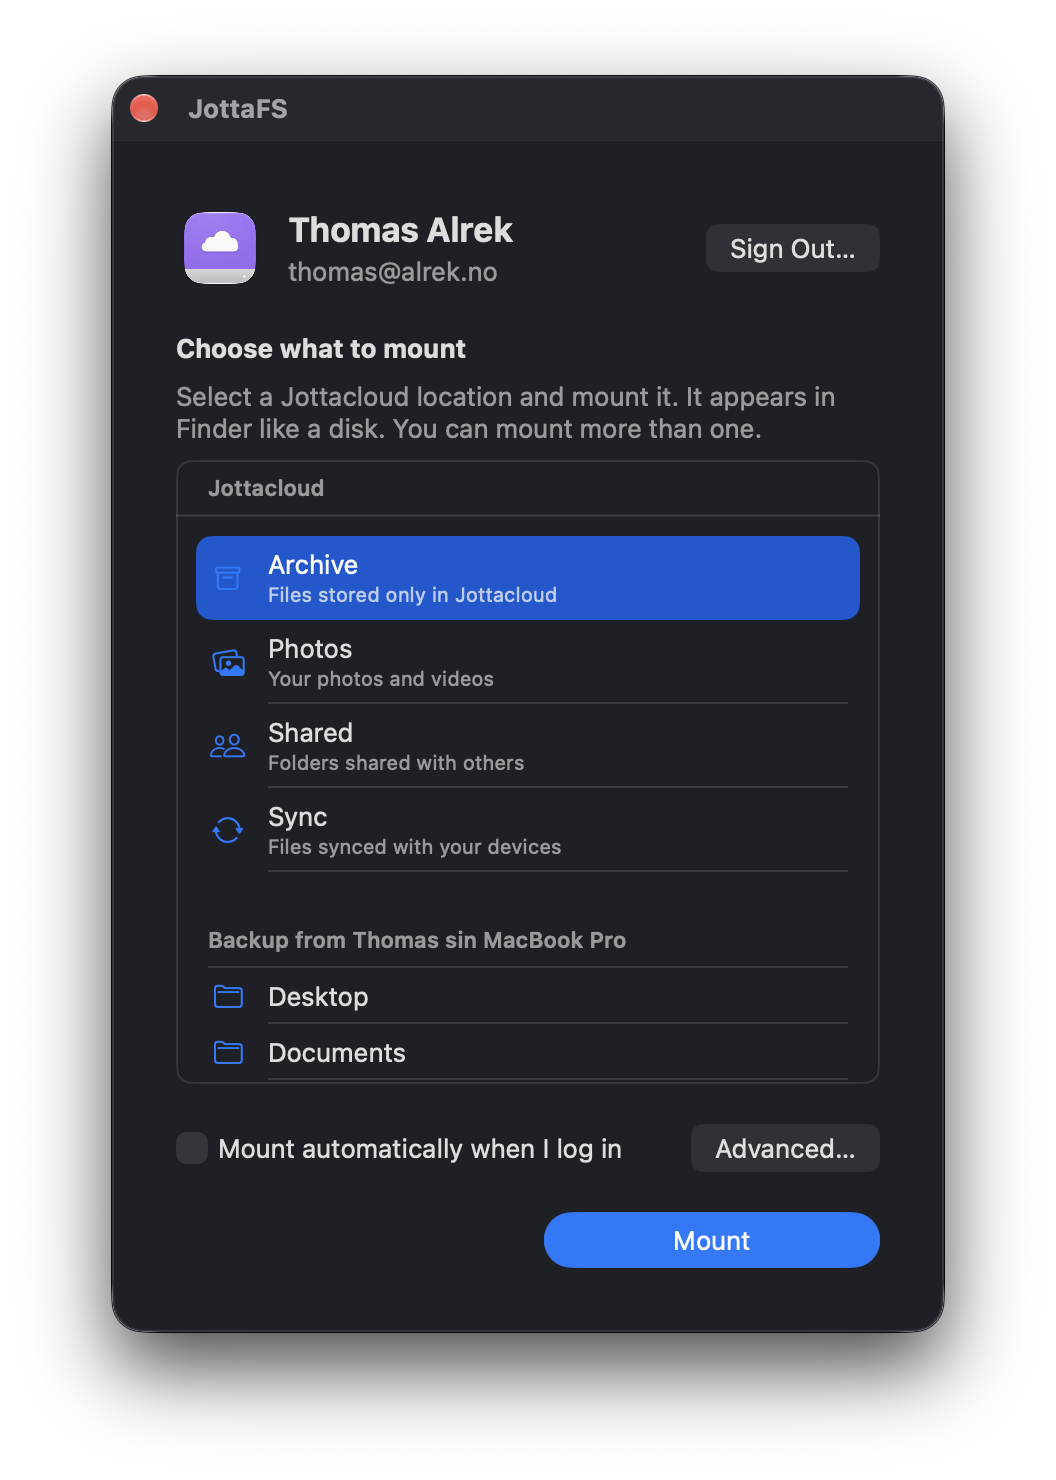
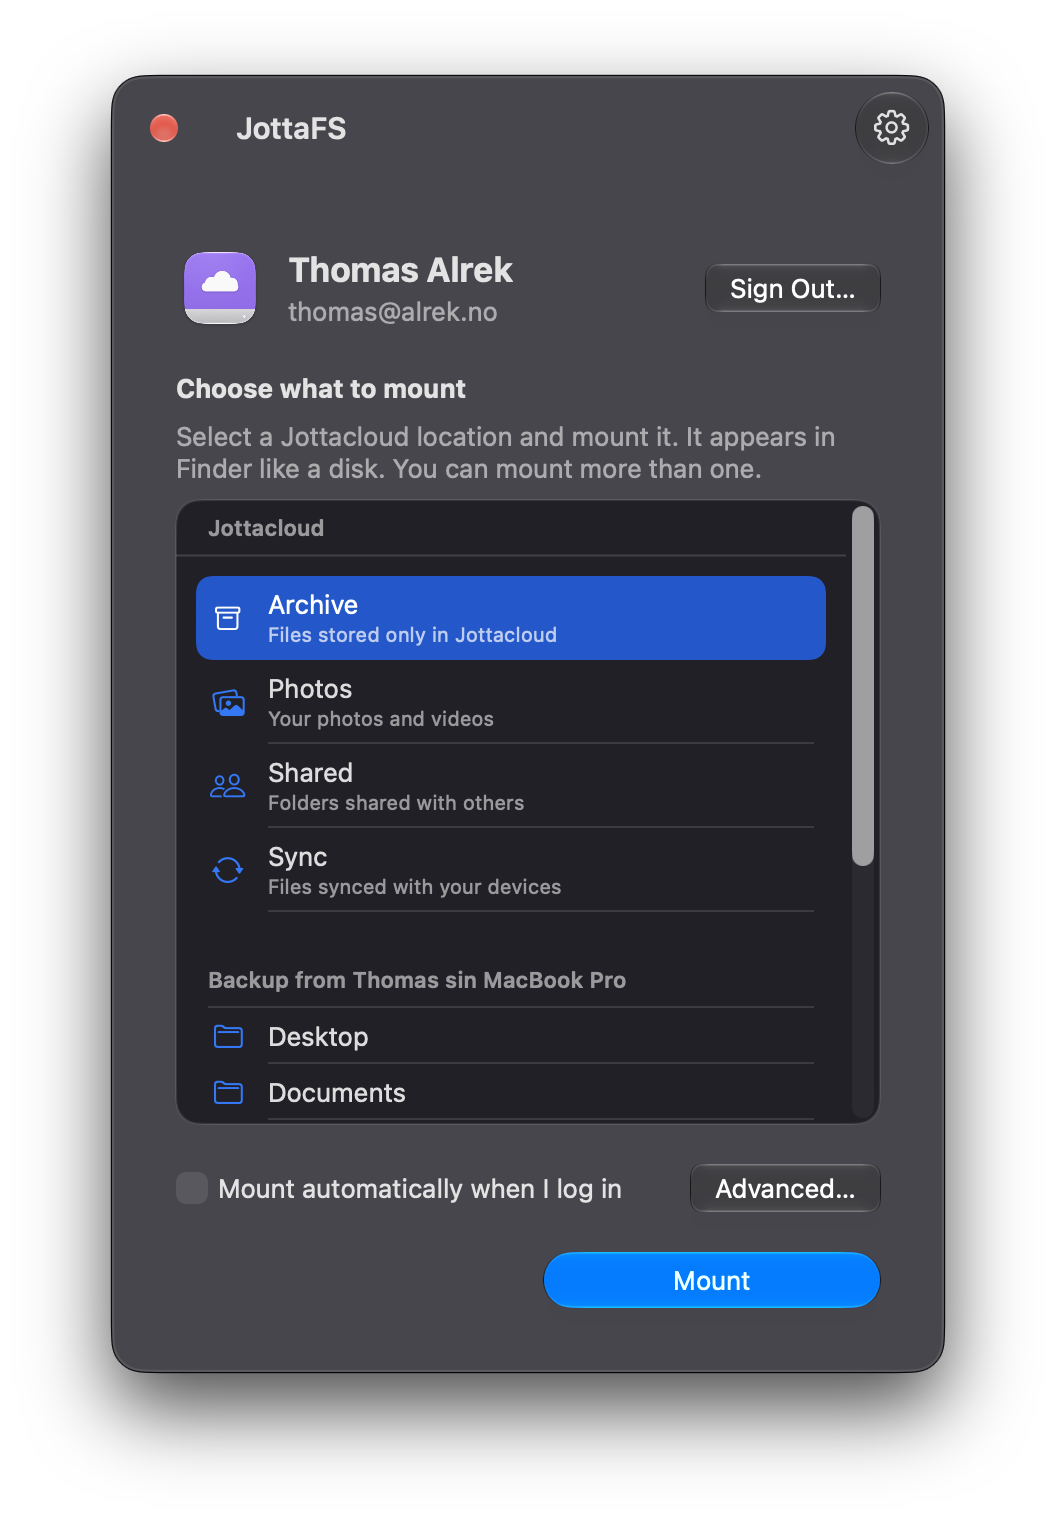
docs: new screenshots and Settings location for 1.2.0

diff --git a/README.md b/README.md
@@ -242,7 +242,7 @@ JottaFS uses a background item for this. If macOS asks, allow **JottaFS** in
 
 ### Settings
 
-Click the gear button in the lower-left corner of the JottaFS window, or
+Click the gear button in the upper-right corner of the JottaFS window, or
 choose **JottaFS → Settings**.
 
 - **Download cache:** set the size of the download cache, see how much of it
@@ -397,6 +397,12 @@ copies, downloads and attributes on the real volume (in `JottaFS-Test`):
 ```sh
 make probe VOLUME=/Volumes/<disk name>
 ```
+
+The app icon is the layered Icon Composer file `Resources/JottaFS.icon`
+(open it in Icon Composer, which comes with Xcode). `Tools/make-app-icon.swift`
+draws the flat `Resources/JottaFS.icns` that the DMG uses as its disk icon.
+For the screenshots in this README, a Debug build can start at the sign-in
+screen without signing out: run it with `--preview-signed-out`.
 
 These commands do not make or sign the app. Use Xcode to build, sign and test
 the app and the extension.
